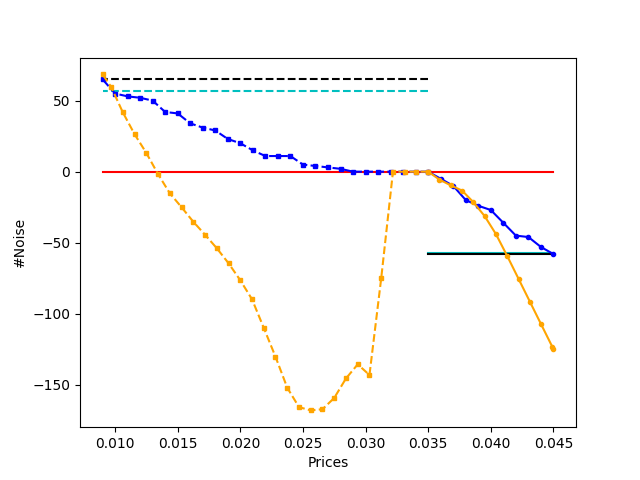
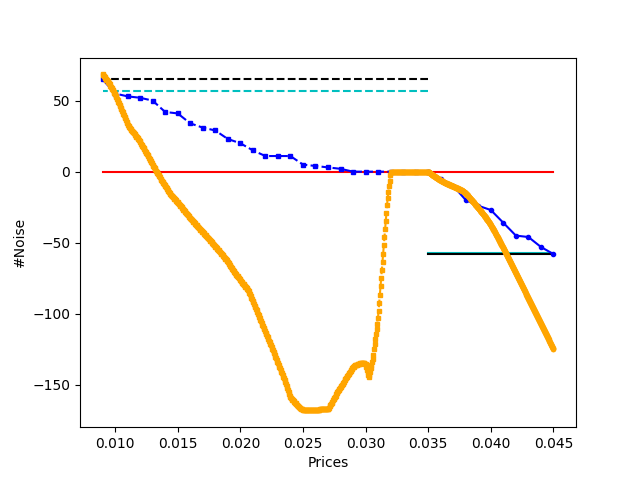
xup

diff --git a/core.py b/core.py
@@ -952,7 +952,7 @@ class Play(object):
         input_dim = self._batch_input_shape[-1].value
         samples = inputs.shape[-1] // input_dim
         LOG.debug("#Samples: {}".format(samples))
-        states = None
+        # states = None
         for j in range(samples):
             # LOG.debug("PID: {}, self.states: {}, states: {} before".format(os.getpid(), sess.run(self.states), states))
             self.reset_states(states)
@@ -2127,17 +2127,17 @@ class MyModel(object):
                            fake_B2, fake_B3, _B1, _B2, _B3)
 
             # import ipdb; ipdb.set_trace()
-            fake_size = fake_price_list.shape[-1]
-            fake_interpolated_prices_ = fake_interpolated_prices[::batch_size//fake_size]
-            fake_interpolated_noises_ = fake_interpolated_noises[::batch_size//fake_size]
-            fake_interpolated_prices = np.hstack([fake_interpolated_prices_, fake_interpolated_prices[-1]])
-            fake_interpolated_noises = np.hstack([fake_interpolated_noises_, fake_interpolated_noises[-1]])
+            # fake_size = fake_price_list.shape[-1]
+            # fake_interpolated_prices_ = fake_interpolated_prices[::batch_size//fake_size]
+            # fake_interpolated_noises_ = fake_interpolated_noises[::batch_size//fake_size]
+            # fake_interpolated_prices = np.hstack([fake_interpolated_prices_, fake_interpolated_prices[-1]])
+            # fake_interpolated_noises = np.hstack([fake_interpolated_noises_, fake_interpolated_noises[-1]])
 
-            size = price_list.shape[-1]
-            interpolated_prices_ = interpolated_prices[::batch_size//size]
-            interpolated_noises_ = interpolated_noises[::batch_size//size]
-            interpolated_prices = np.hstack([interpolated_prices_, interpolated_prices[-1]])
-            interpolated_noises = np.hstack([interpolated_noises_, interpolated_noises[-1]])
+            # size = price_list.shape[-1]
+            # interpolated_prices_ = interpolated_prices[::batch_size//size]
+            # interpolated_noises_ = interpolated_noises[::batch_size//size]
+            # interpolated_prices = np.hstack([interpolated_prices_, interpolated_prices[-1]])
+            # interpolated_noises = np.hstack([interpolated_noises_, interpolated_noises[-1]])
 
             self._plot_interpolated(ax1, fake_interpolated_prices, fake_interpolated_noises,
                                     interpolated_prices, interpolated_noises, fake_B1,
